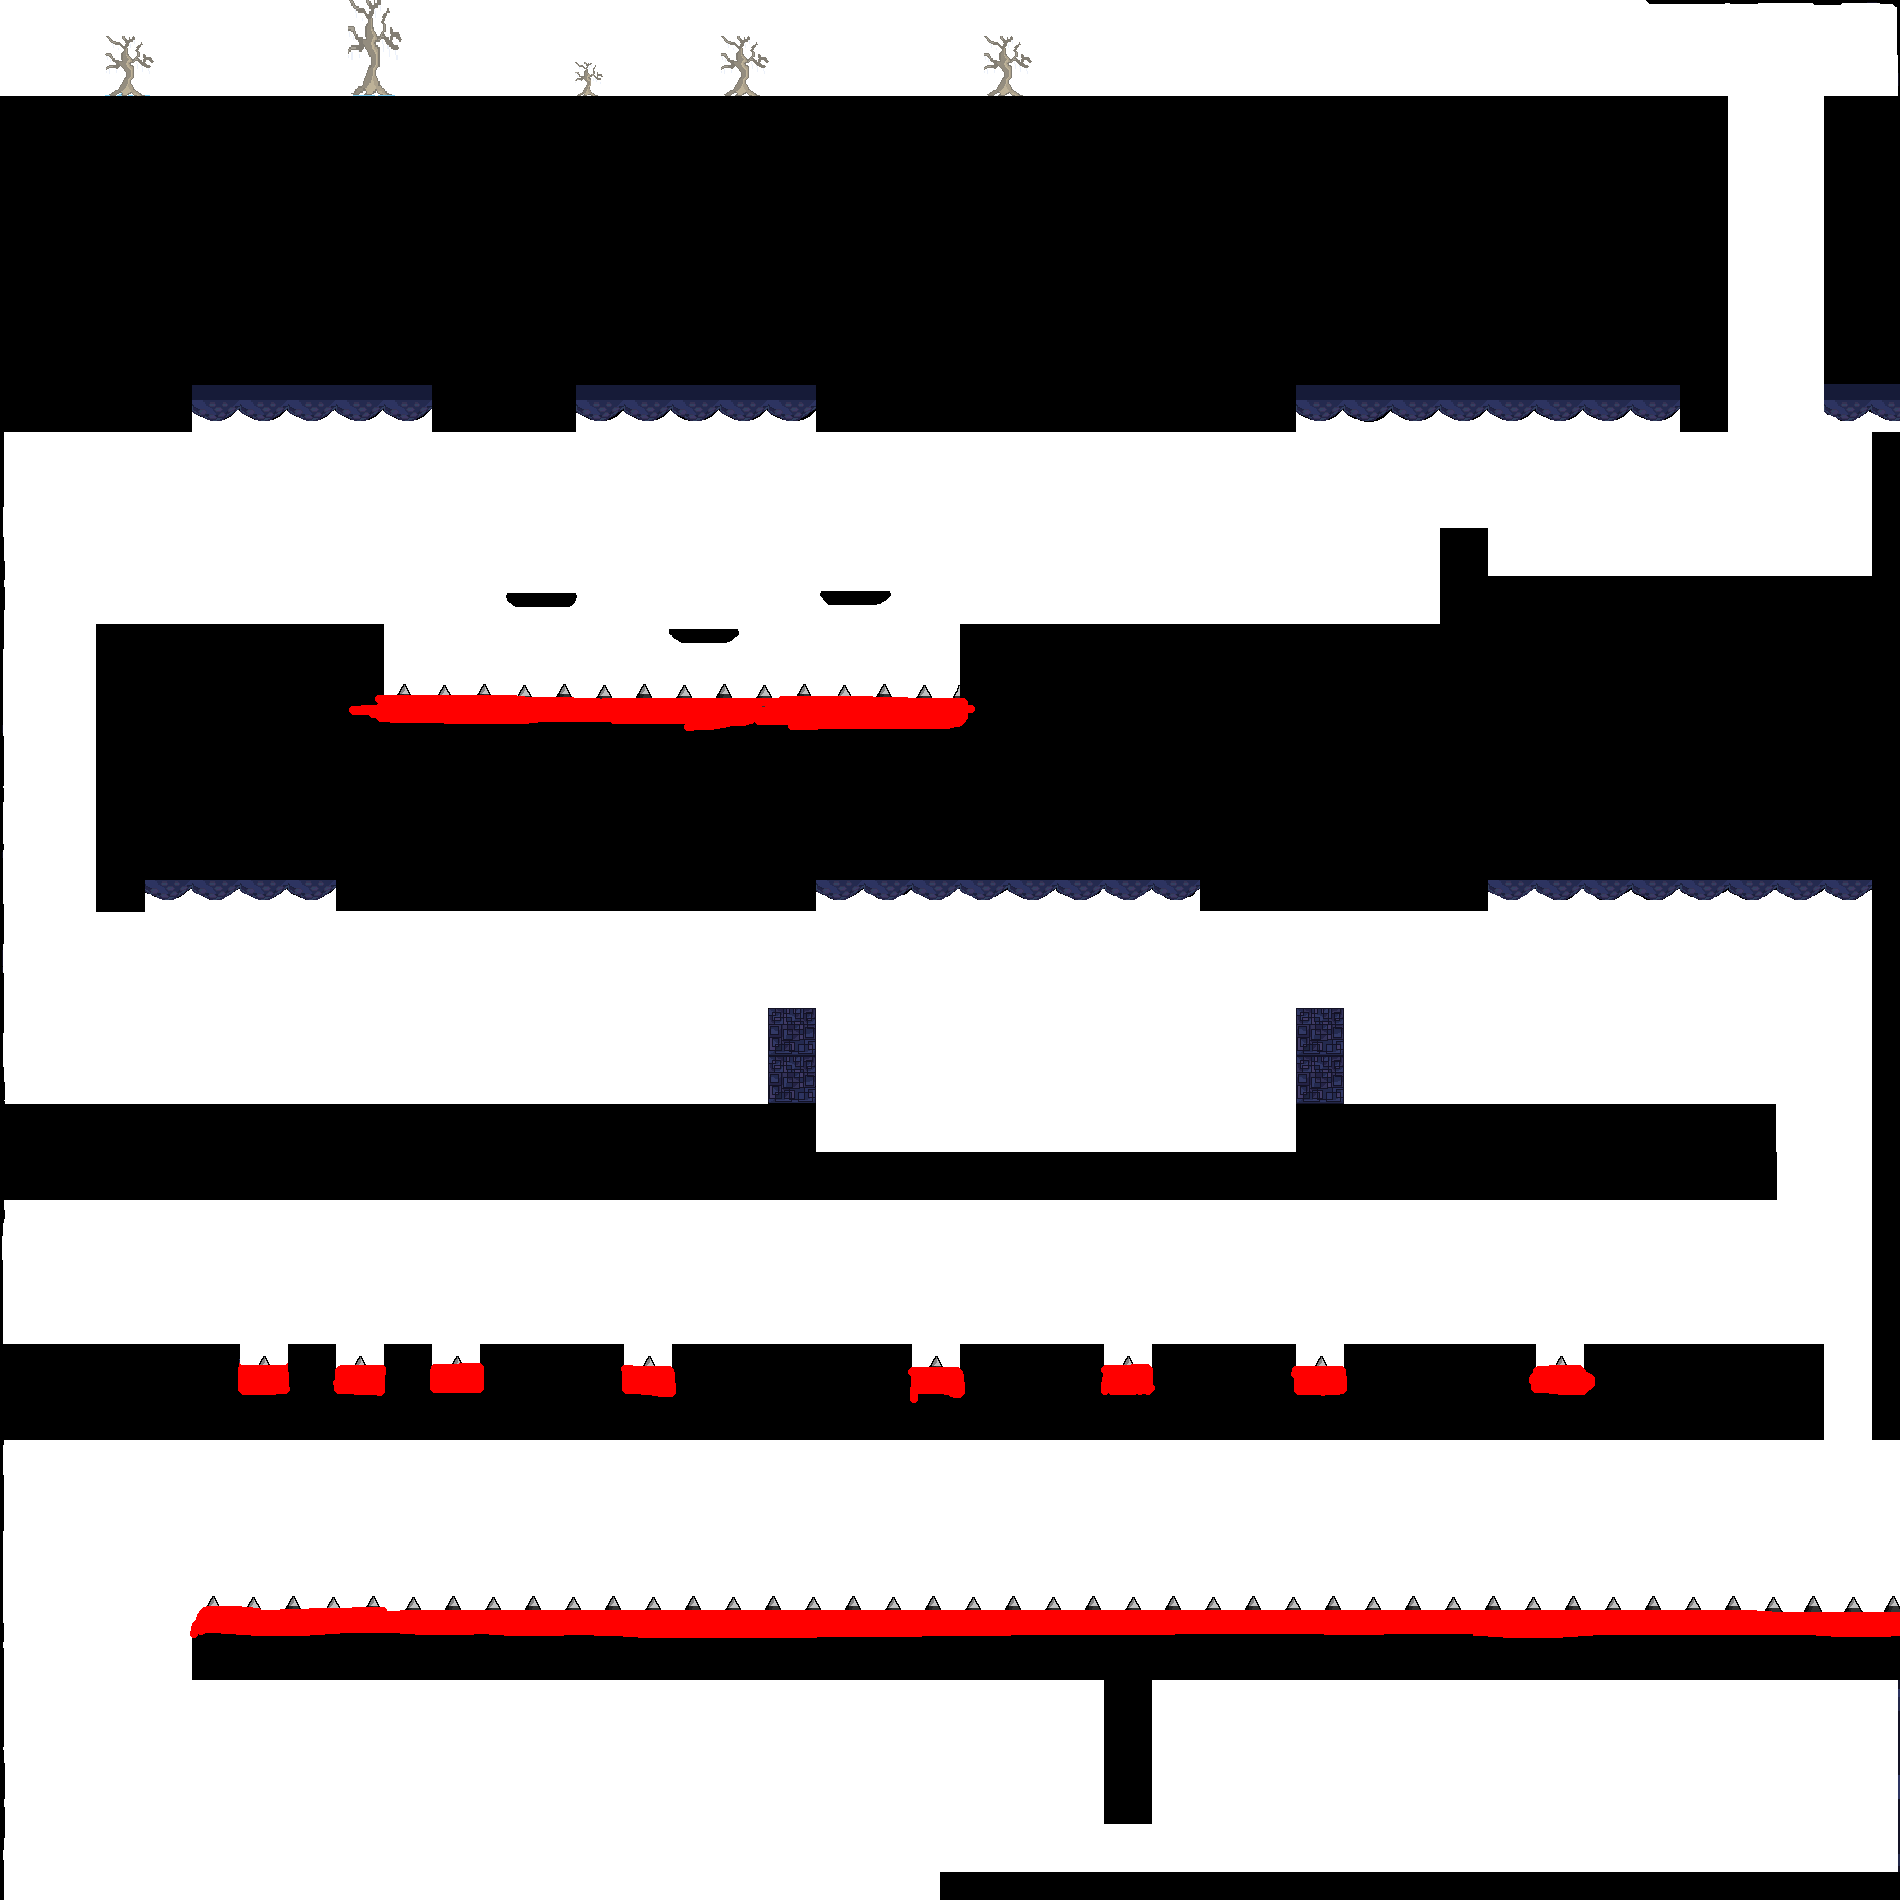
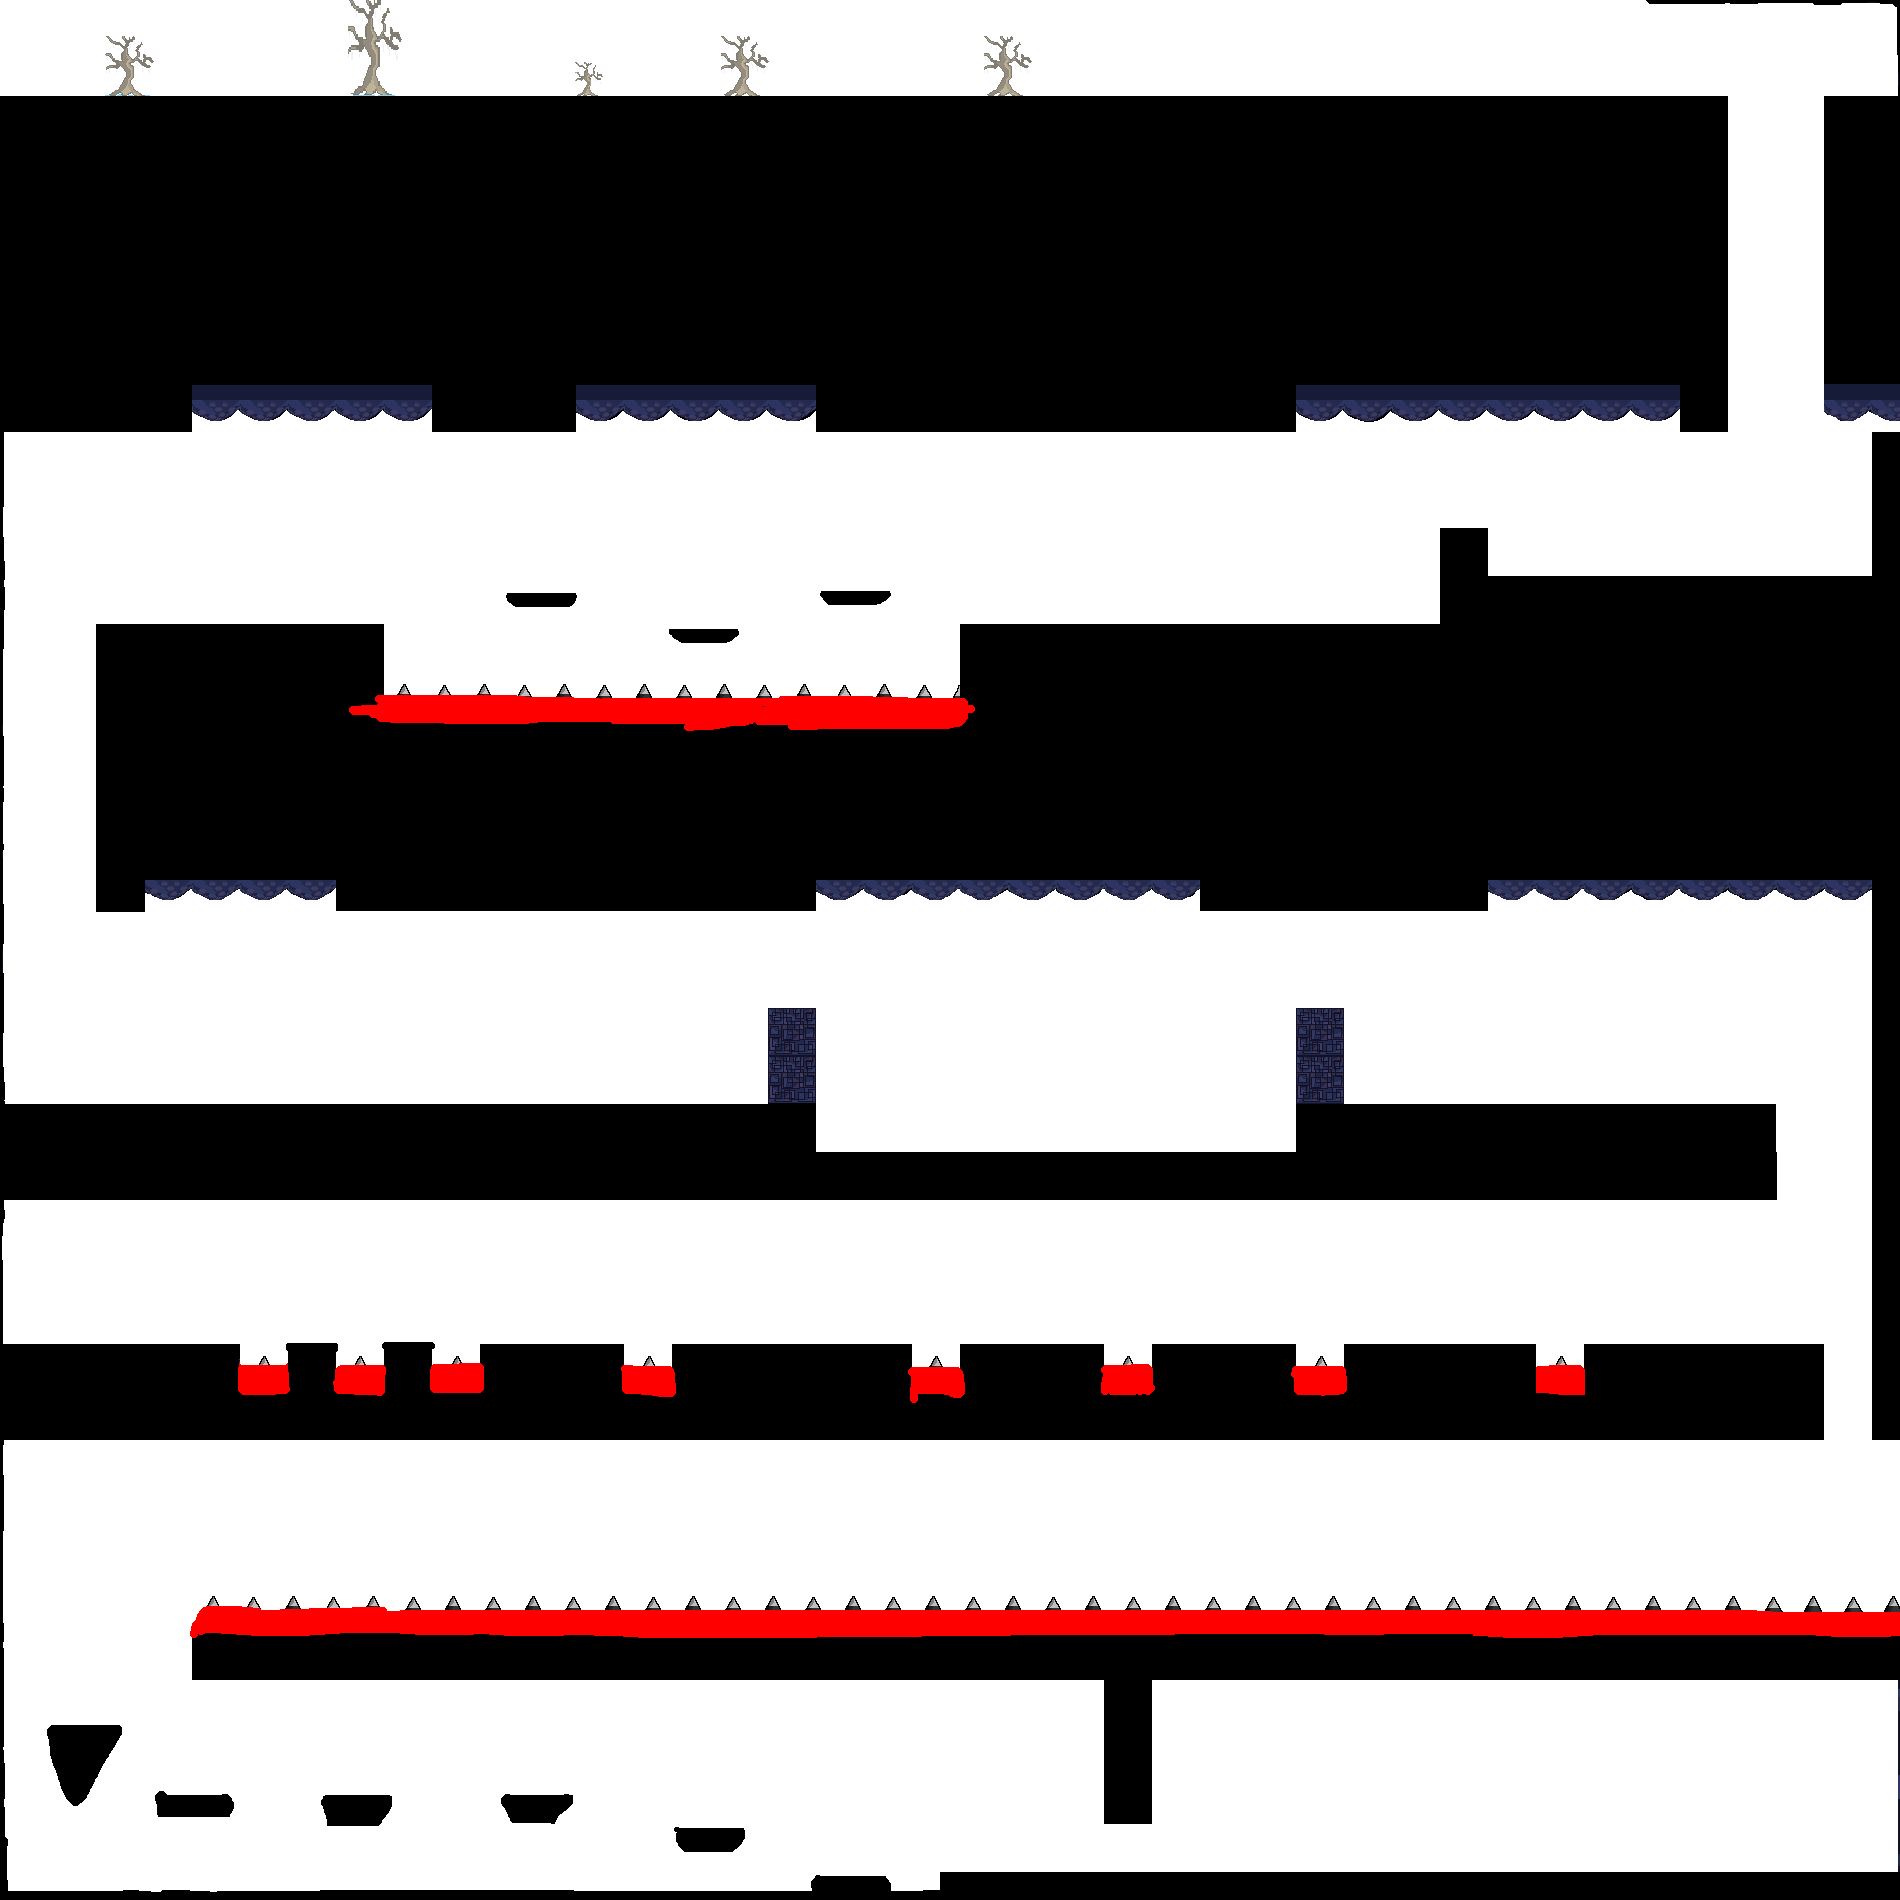
finnal update for presentation
fixed platform bug
add collision just for presentation
added random ennemy for
presentation

diff --git a/ProjectOcram/Game.cs b/ProjectOcram/Game.cs
@@ -172,10 +172,13 @@ namespace ProjectOcram
         /// </summary>
         private Color couleurMenuItemSelectionne = Color.Yellow;
 
-
+        bool Manette;
 
 
         Texture2D Menu;
+
+        //Texture2D Boss;
+        //Vector2 BossPosition = new Vector2(1700, 1720);
 
         /// <summary>
         /// Constructeur par défaut de la classe. Cette classe est générée automatiquement
@@ -392,6 +395,7 @@ namespace ProjectOcram
             if (gamepadState.IsConnected)
             {
                 this.Components.Add(new ManetteService(this));
+                Manette = true;
             }
             else
             {
@@ -507,9 +511,14 @@ namespace ProjectOcram
             this.slimes.Add(new Slime(350, 77));
             this.slimes.Add(new Slime(1500, 77));
             this.slimes.Add(new Slime(1200, 605));
+            this.slimes.Add(new Slime(1700, 1920));
+            this.slimes.Add(new Slime(1400, 1920));
+            this.slimes.Add(new Slime(1300, 1920));
 
 
             Menu = this.Content.Load<Texture2D>(@"MenuImage\menuV2");
+
+           // Boss= this.Content.Load<Texture2D>(@"Boss\bossMonogame");
 
             // Configurer les ogres de sorte qu'ils ne puissent se déplacer
             // hors de la mappe monde et initialiser la détection de collision de tuiles.
@@ -527,7 +536,12 @@ namespace ProjectOcram
             // Créer les ogres.
             this.miroyrs = new List<Miroyr>();
             this.miroyrs.Add(new Miroyr(600, 1120));
-            
+            this.miroyrs.Add(new Miroyr(1700, 1720));
+            this.miroyrs.Add(new Miroyr(1700, 1720));
+            this.miroyrs.Add(new Miroyr(1300, 1720));
+            this.miroyrs.Add(new Miroyr(1100, 1720));
+
+
             // Configurer les ogres de sorte qu'ils ne puissent se déplacer
             // hors de la mappe monde et initialiser la détection de collision de tuiles.
             foreach (Miroyr miroyr in this.miroyrs)
@@ -725,6 +739,10 @@ namespace ProjectOcram
                     plateforme.AjouterPassager(this.joueur);
                     
                 }
+                else
+                {
+                    plateforme.RetirerPassager(this.joueur);
+                }
                
             }
 
@@ -770,6 +788,8 @@ namespace ProjectOcram
             this.spriteBatch.Begin(SpriteSortMode.Immediate, BlendState.AlphaBlend);
             
             this.monde.DrawArrierePlan(this.camera, this.spriteBatch);    // afficher le monde images
+
+           
 
 
             if (this.EtatJeu != Etats.Quitter)
@@ -839,7 +859,7 @@ namespace ProjectOcram
                     this.couleurMenuItemSelectionne);
             }
 
-            
+
             this.spriteBatch.End();
 
             // Resize the game to fit the monitor's resolution
@@ -892,8 +912,15 @@ namespace ProjectOcram
                 case Etats.Pause:
                     if (this.MenuCourant == null)
                     {
-
-                        output = "Pause (Pressez P pour continuer...)";
+                        if (Manette)
+                        {
+                            output = "Pause (Pressez Start pour continuer...)";
+                        }
+                        else
+                        {
+                            output = "Pause (Pressez P pour continuer...)";
+                        }
+                            
                     }
 
                     break;

diff --git a/ProjectOcram/JoueurSprite.cs b/ProjectOcram/JoueurSprite.cs
@@ -740,8 +740,68 @@ namespace ProjectOcram
                 camera.Monde2Camera(ref rectOnTop);
             }
             // Afficher le rectangle.
-            spriteBatch.Draw(rectTexture, rect, Color.Black);
-            spriteBatch.Draw(rectTextureOnTop, rectOnTop, Color.MediumBlue);
+            spriteBatch.Draw(rectTexture, rect, Color.White);
+            if (hasDashedGauche == false && hasDashedDroite==false)
+            {
+                spriteBatch.Draw(rectTextureOnTop, rectOnTop, Color.White);
+            }
+
+            if (hasDashedGauche == true)
+            {
+                // Créer le rectangle à dessiner.
+                Rectangle rect2 = new Rectangle((int)(this.Position.X - 45),
+                (int)(this.Position.Y - this.Height / 2 - 23),
+                this.Width + 55, 35);
+
+                // Créer le rectangle à dessiner.
+                Rectangle rectOnTop2 = new Rectangle((int)(this.Position.X - 27),
+                (int)(this.Position.Y - this.Height / 2 - 8),
+                this.Width / 2 + 20, 4);
+
+
+            
+
+                // Si nous avons une caméra, corriger le rectangle en conséquence.
+                if (camera != null)
+                {
+                    camera.Monde2Camera(ref rect2);
+                    camera.Monde2Camera(ref rectOnTop2);
+                }
+                // Afficher le rectangle.
+               // spriteBatch.Draw(rectTextureOnTop, rectOnTop, Color.Transparent);
+                spriteBatch.Draw(rectTextureOnTop, rectOnTop2, Color.LimeGreen);
+               
+            }
+
+            if (hasDashedDroite == true)
+            {
+
+                // Créer le rectangle à dessiner.
+                Rectangle rect3 = new Rectangle((int)(this.Position.X - 45),
+                (int)(this.Position.Y - this.Height / 2 - 23),
+                this.Width + 55, 35);
+
+                // Créer le rectangle à dessiner.
+                Rectangle rectOnTop3 = new Rectangle((int)(this.Position.X - 27),
+                (int)(this.Position.Y - this.Height / 2 - 8),
+                this.Width / 2, 4);
+
+
+
+
+                // Si nous avons une caméra, corriger le rectangle en conséquence.
+                if (camera != null)
+                {
+                    camera.Monde2Camera(ref rect3);
+                    camera.Monde2Camera(ref rectOnTop3);
+                }
+                // Afficher le rectangle.
+                // spriteBatch.Draw(rectTextureOnTop, rectOnTop, Color.Transparent);
+                spriteBatch.Draw(rectTextureOnTop, rectOnTop3, Color.IndianRed);
+
+            }
+
+
         }
 
 

diff --git a/ProjectOcram/Plateforme.cs b/ProjectOcram/Plateforme.cs
@@ -157,9 +157,15 @@ public class Plateforme : Sprite
 
             // Faire bouger la plateforme seulement lorsque le sprite joueur est dessu.
             if (passagers.Count < 1)
+            {
                 vitesseH = 0.0f;
+            }
+
             else
+            {
                 vitesseH = 0.3f;
+            }
+               
 
 
             int  deltaX = -(int)(gameTime.ElapsedGameTime.Milliseconds * vitesseH);
@@ -171,7 +177,10 @@ public class Plateforme : Sprite
             // Déplacer aussi tous les sprites transportés par la plateforme.
             foreach (Sprite sprite in this.passagers)
             {
-                sprite.Position = new Vector2(sprite.Position.X + deltaX, sprite.Position.Y);
+               
+                    sprite.Position = new Vector2(sprite.Position.X + deltaX, sprite.Position.Y);
+                
+               
             }
         }
     }

diff --git a/ProjectOcram/ManetteService.cs b/ProjectOcram/ManetteService.cs
@@ -178,7 +178,7 @@ namespace IFM20884
         /// <returns>Vrai si le bouton B est pressé.</returns>
         public bool Pause(int device)
         {
-            return this.NouvellePression(device, Buttons.B);
+            return this.NouvellePression(device, Buttons.Start);
         }
 
         /// <summary>
@@ -188,7 +188,7 @@ namespace IFM20884
         /// <returns>Vrai si la touche Esc est pressée.</returns>
         public bool Quitter(int device)
         {
-            return this.NouvellePression(device, Buttons.Y);
+            return this.NouvellePression(device, Buttons.Back);
         }
 
         /// <summary>
